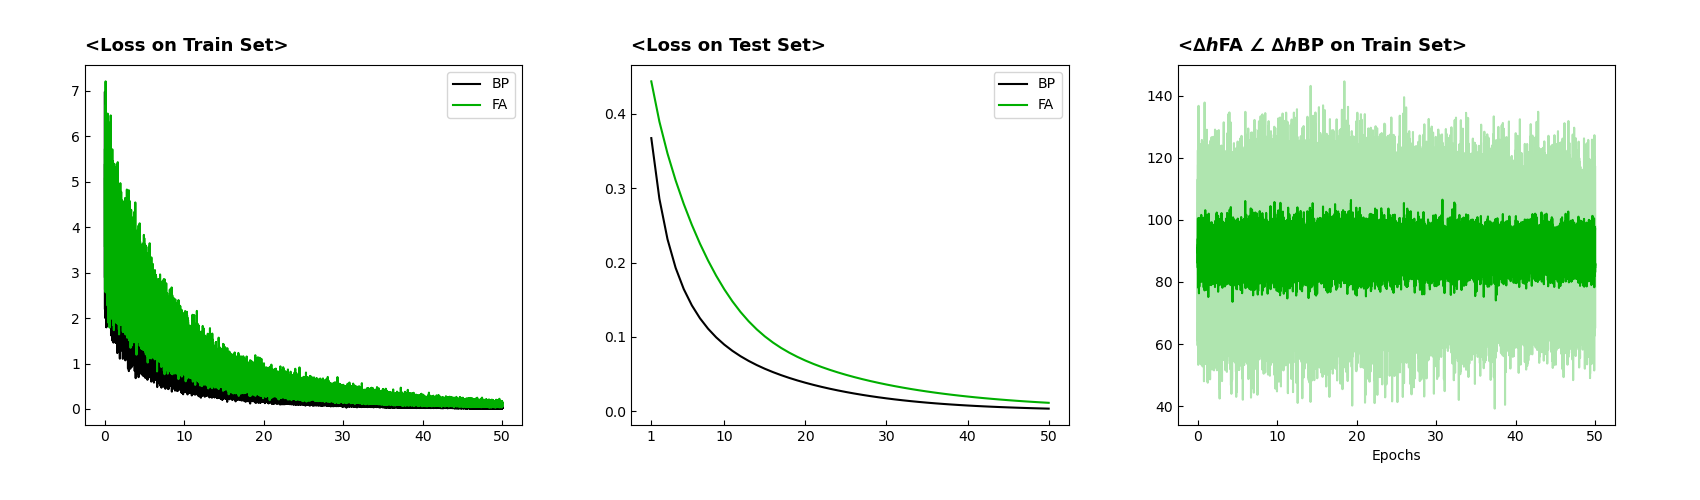
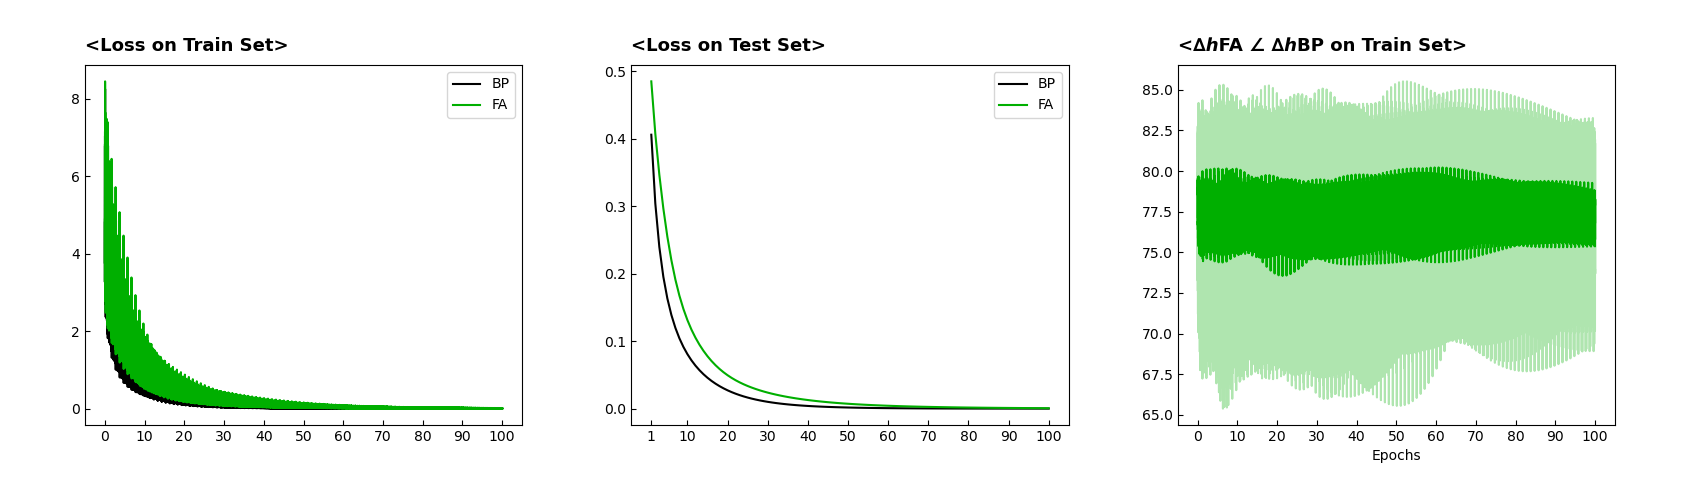
write 'calculate angle'

diff --git a/task1_linearFunction.py b/task1_linearFunction.py
@@ -75,7 +75,7 @@ class TaskOneModel(Model):
         total_dh_list = []
         for e in range(epoch):
             print(f'EPOCH ({e+1}/{epoch})')
-            train_x, train_y = dataset.loadTrainDataset(batch_size=batch_size, is_shuffle=True)
+            train_x, train_y = dataset.loadTrainDataset(batch_size=batch_size, is_shuffle=False)
 
             train_losses, dhs = self.update_on_epoch(x=train_x, y=train_y)
             test_losses = self.inference(x=test_x, y=test_y)
@@ -119,6 +119,9 @@ if __name__ == '__main__':
     bp_model = create_network(affine_type='BP')
     fa_model = create_network(affine_type='FA')
 
+    fa_model.input_layer.childLayer.W = bp_model.input_layer.childLayer.W.copy()
+    fa_model.output_layer.W = bp_model.output_layer.W.copy()
+
     bp_model.compile(lossFunction=lossFunctions.SE(), optimizer=optimizers.SGD(learning_rate=LEARNING_RATE))
     fa_model.compile(lossFunction=lossFunctions.SE(), optimizer=optimizers.SGD(learning_rate=LEARNING_RATE))
 
@@ -127,11 +130,22 @@ if __name__ == '__main__':
 
     h_FAs, h_BPs = np.array(h_FAs, dtype=np.float64), np.array(h_BPs, dtype=np.float64)
 
+    import pickle
+    with open("./hs.pk","wb") as fw:
+        pickle.dump({'h_FAs': h_FAs, 'h_BPs': h_BPs}, fw)
+    exit()
+
     fro_norm = lambda x, axis: np.linalg.norm(x, ord=2, axis=axis)
     
-    numerator = h_FAs * h_BPs
-    numerator = np.sum(numerator, axis=1)
+  
+    # numerator = np.matmul(
+    #     np.expand_dims(h_FAs, axis=1),
+    #     np.expand_dims(h_BPs, axis=-1)
+    # )
     # numerator = fro_norm(numerator, axis=1)
+    # numerator = np.squeeze(numerator, axis=-1)
+    numerator = h_FAs * h_BPs
+    numerator = fro_norm(numerator, axis=1)
 
     denominator = fro_norm(h_FAs, axis=1) * fro_norm(h_BPs, axis=1)
     angles = numerator / denominator
